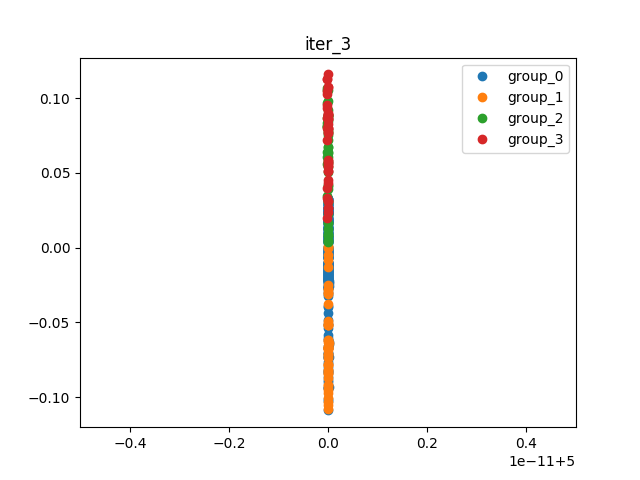
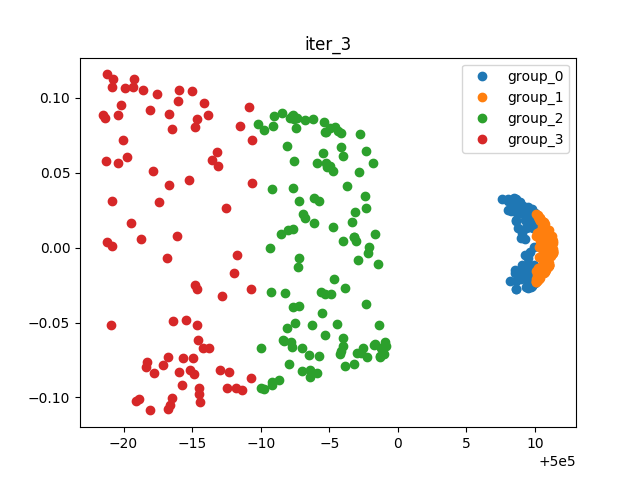
fix spectral clustering and do correct

diff --git a/hw5/spectral_clustering.py b/hw5/spectral_clustering.py
@@ -50,7 +50,6 @@ def K_Means(data_arr, k_cluster):
             distance_arr[:, j] = np.dot(tag_arr, norm)
         print(distance_arr)
     
-    print(tag_arr)
 
 def SpectralWrapper(data_arr, tag_arr, k_cluster):
     """
@@ -69,14 +68,16 @@ def SpectralWrapper(data_arr, tag_arr, k_cluster):
         W[i] = kernel(data_arr, data_arr[:, i:i+1])
     D = np.diag(np.sum(W, axis=1))
 
-    # Compute unnormalized graph laplacian
+    # Add mask and compute unnormalized graph laplacian
+    for i in range(num_points):
+        W[i][i] = 0
     L = W - D
 
     # Compute first k generalized eigenvectors
     eigen_values, eigen_vectors = eig(L, D)
     U = eigen_vectors[:, :k_cluster].T
     # U = eigen_vectors[:k_cluster]
-    U[0] *= 1e+2
+    U[0] *= 1e+7
 
     # Plot eigen space
     plt.figure(1)
@@ -113,4 +114,4 @@ if __name__ == '__main__':
 
     # HW5 data
     data_arr, tag_arr = loadData(data_path = './test2_data.txt', tag_path = './test2_ground.txt')
-    SpectralWrapper(data_arr, tag_arr, 2)
+    SpectralWrapper(data_arr, tag_arr, 4)

diff --git a/hw5/video.py b/hw5/video.py
@@ -23,5 +23,5 @@ for _cluster in cluster_method:
             for image_name in img_list:
                 img = cv2.imread(join(subfolder, image_name))
                 cv2.imshow(_cluster, img)
-                cv2.waitKey(1000)
+                cv2.waitKey(250)
             cv2.waitKey(0)

diff --git a/hw5/kernel_k_means.py b/hw5/kernel_k_means.py
@@ -38,7 +38,6 @@ def Kernel_K_Means(data_arr, k_cluster):
 
     previous_tag_arr = None
     stop_counter = 0
-    print('tag_arr: ', tag_arr)
     while True:   
         # Calculate distance
         for k in range(k_cluster):     
